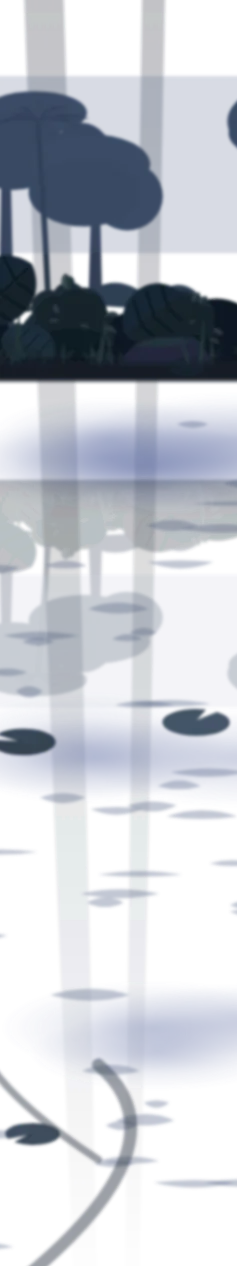
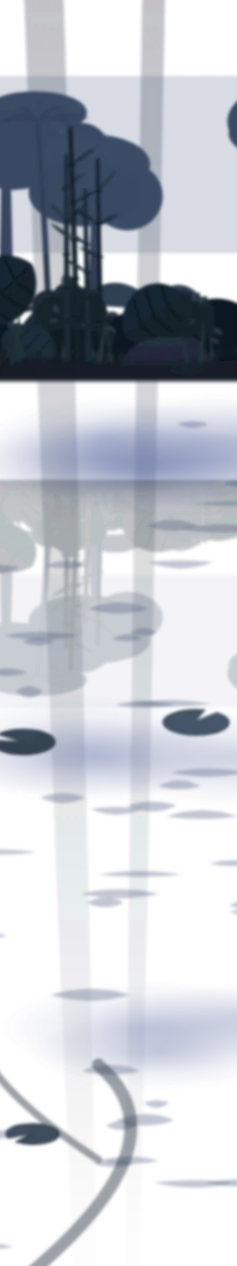
Grow varied plants on the far bank; keep the pond glow off the bank
Claude-Session: https://claude.ai/code/session_01EHtmNVvLo6L45VFzzqfGpi

Changed region(s): [[0.2363, 0.0924, 0.443, 0.2464], [0.2658, 0.4313, 0.384, 0.4929]]

diff --git a/assets/js/nature.js b/assets/js/nature.js
@@ -1276,6 +1276,22 @@ function farBankBackdrop(x0, x1, y, tones) {
   return s;
 }
 // 対岸の手前：岸から立つ太い幹と水に下りる根、水ぎわの苔むした岩、細長い水草の葉、濡れた土の帯
+// 対岸の植物（いろいろな種類を順ぐりに）：竹、パピルス、木生シダ、クワズイモ、ヘリコニア。くすんだ色で、影絵に近く
+function bankPlants(x0, x1, y, tones) {
+  const d = hrng(x0 * 2.7 + x1 * .3 + y * 5), deep = tones[0], mid = tones[1], lt = tones[2], lite = tones[3];
+  const leaf = (x, yy, L, a, w, c) => `<path d="M0 0Q${n1(L * .5)} ${n1(-w)} ${n1(L)} 0Q${n1(L * .5)} ${n1(w)} 0 0Z" transform="translate(${n1(x)} ${n1(yy)}) rotate(${n1(a)})" fill="${c}"/>`;
+  const kinds = {
+    bamboo(x) { let o = ''; const n = 4 + Math.floor(d() * 3); for (let k = 0; k < n; k++) { const bx = x + (k - n / 2) * .9 + (d() - .5) * .5, h = 12 + d() * 7, lean = (d() - .5) * 1.6, c = k % 2 ? mid : lt; o += `<path d="M${n1(bx - .22)} ${n1(y + .5)}L${n1(bx + lean - .16)} ${n1(y - h)}L${n1(bx + lean + .16)} ${n1(y - h)}L${n1(bx + .22)} ${n1(y + .5)}Z" fill="${c}"/>`; for (let j = 1; j < 6; j++) { const t = j / 6, jy = y - h * t, jx = bx + lean * t; o += `<path d="M${n1(jx - .3)} ${n1(jy)}H${n1(jx + .3)}" stroke="${deep}" stroke-width=".14"/>`; if (j > 2) for (const dir of [-1, 1]) if (d() < .6) o += leaf(jx, jy, 1.6 + d() * .9, dir < 0 ? 180 + 25 + d() * 25 : -25 - d() * 25 + 360, .28, d() < .5 ? lt : lite); } } return o; },
+    papyrus(x) { let o = ''; for (let k = 0; k < 5; k++) { const bx = x + (k - 2) * .8 + (d() - .5) * .6, h = 5 + d() * 4, tx = bx + (d() - .5) * 2, ty = y - h; o += `<path d="M${n1(bx)} ${n1(y + .5)}Q${n1((bx + tx) / 2)} ${n1(y - h * .5)} ${n1(tx)} ${n1(ty)}" stroke="${mid}" stroke-width=".16" fill="none"/>`; for (let j = 0; j < 11; j++) { const a = -165 + j * 15, L = 1.3 + d() * .6; o += `<path d="M${n1(tx)} ${n1(ty)}l${n1(Math.cos(a * Math.PI / 180) * L)} ${n1(Math.sin(a * Math.PI / 180) * L * .7)}" stroke="${j % 2 ? lt : lite}" stroke-width=".12" stroke-linecap="round"/>`; } } return o; },
+    treeFern(x) { const h = 6 + d() * 4, tx = x + (d() - .5), ty = y - h; let o = `<path d="M${n1(x - .35)} ${n1(y + .5)}L${n1(tx - .25)} ${n1(ty)}L${n1(tx + .25)} ${n1(ty)}L${n1(x + .35)} ${n1(y + .5)}Z" fill="${deep}"/>`; for (let k = 0; k < 9; k++) { const a = -175 + k * 21 + (d() - .5) * 8, L = 3 + d() * 1.5, ex = tx + Math.cos(a * Math.PI / 180) * L, ey = ty + Math.sin(a * Math.PI / 180) * L * .55 + L * .3; o += `<path d="M${n1(tx)} ${n1(ty)}Q${n1((tx + ex) / 2)} ${n1(Math.min(ty, ey) - .8)} ${n1(ex)} ${n1(ey)}Q${n1((tx + ex) / 2)} ${n1(Math.min(ty, ey) - .1)} ${n1(tx)} ${n1(ty + .3)}Z" fill="${k % 2 ? lt : mid}"/>`; for (let j = 1; j < 5; j++) { const t = j / 5, px = tx + (ex - tx) * t, py = ty + (ey - ty) * t - Math.sin(t * Math.PI) * .6; o += `<path d="M${n1(px)} ${n1(py)}l${n1(-.2)} ${n1(.45)}M${n1(px)} ${n1(py)}l${n1(.2)} ${n1(.45)}" stroke="${deep}" stroke-width=".08" opacity=".6"/>`; } } return o; },
+    elephantEar(x) { let o = ''; for (let k = 0; k < 4; k++) { const bx = x + (k - 1.5) * 1.3, h = 2.6 + d() * 2.2, lx = bx + (d() - .5) * 1.4, ly = y - h, s2 = 1.5 + d() * .8, c = k % 2 ? lt : mid; o += `<path d="M${n1(bx)} ${n1(y + .5)}Q${n1(bx)} ${n1(y - h * .6)} ${n1(lx)} ${n1(ly)}" stroke="${mid}" stroke-width=".13" fill="none"/><path d="M${n1(lx)} ${n1(ly)}C${n1(lx - s2 * 1.1)} ${n1(ly - s2 * .2)} ${n1(lx - s2 * .7)} ${n1(ly + s2 * 1.1)} ${n1(lx)} ${n1(ly + s2 * 1.5)}C${n1(lx + s2 * .7)} ${n1(ly + s2 * 1.1)} ${n1(lx + s2 * 1.1)} ${n1(ly - s2 * .2)} ${n1(lx)} ${n1(ly)}Z" fill="${c}"/><path d="M${n1(lx)} ${n1(ly)}V${n1(ly + s2 * 1.4)}" stroke="${deep}" stroke-width=".08" opacity=".5"/>`; } return o; },
+    heliconia(x) { let o = ''; for (let k = 0; k < 3; k++) { const bx = x + (k - 1) * 1.6, h = 5 + d() * 3, ty = y - h; o += `<path d="M${n1(bx)} ${n1(y + .5)}L${n1(bx)} ${n1(ty)}" stroke="${mid}" stroke-width=".18"/>` + leaf(bx, ty + 1.6, 3 + d(), -40 - d() * 30, .55, lt) + leaf(bx, ty + 2.6, 2.8 + d(), 200 + d() * 30, .5, mid); for (let j = 0; j < 4; j++) { const jy = ty + .2 + j * .75, dir = j % 2 ? 1 : -1; o += `<path d="M${n1(bx)} ${n1(jy)}l${n1(dir * .75)} ${n1(.2)}l${n1(-dir * .5)} ${n1(.45)}Z" fill="${j % 2 ? '#b8683e' : '#c98a3e'}" opacity=".85"/>`; } } return o; },
+  };
+  const order = ['bamboo', 'treeFern', 'papyrus', 'elephantEar', 'heliconia'];
+  let s = '', i = Math.floor(d() * order.length);
+  for (let x = x0 + 4 + d() * 8; x < x1; x += 11 + d() * 12) s += kinds[order[i++ % order.length]](x);
+  return s;
+}
 function farBankFront(x0, x1, y, tones) {
   const d = hrng(x0 * 1.3 + x1 * .4 + y * 2);
   let s = `<path d="M${n1(x0)} ${n1(y + .2)}H${n1(x1)}V${n1(y + 1.1)}H${n1(x0)}Z" fill="#2a3420" opacity=".55"/>`;
@@ -1284,6 +1300,7 @@ function farBankFront(x0, x1, y, tones) {
     s += `<path d="M${n1(x - w)} ${n1(y + .5)}Q${n1(x - w * .6)} ${n1(y - h * .5)} ${n1(x - w * .4)} ${n1(y - h)}L${n1(x + w * .4)} ${n1(y - h)}Q${n1(x + w * .7)} ${n1(y - h * .5)} ${n1(x + w)} ${n1(y + .5)}Z" fill="${c}"/><path d="M${n1(x - w * .5)} ${n1(y)}Q${n1(x - w * .35)} ${n1(y - h * .5)} ${n1(x - w * .25)} ${n1(y - h)}" stroke="#5a5a3c" stroke-width=".18" fill="none" opacity=".7"/>`;
     for (const dir of [-1, 1, -1]) { const rx = x + dir * (w + d() * 2.5); s += `<path d="M${n1(x + dir * w * .5)} ${n1(y - 1.2)}Q${n1(rx)} ${n1(y - .8)} ${n1(rx + dir * .8)} ${n1(y + 1.4)}" stroke="${c}" stroke-width="${n1(.28 + d() * .2)}" fill="none" stroke-linecap="round"/>`; }
   }
+  s += bankPlants(x0, x1, y, tones);
   for (let x = x0 + d() * 8; x < x1; x += 9 + d() * 14) { // 水ぎわの岩（半分水に沈み、上に苔）
     const w = 1.6 + d() * 2.2, h = w * (.45 + d() * .2), cy = y + .9;
     s += `<path d="M${n1(x - w)} ${n1(cy)}Q${n1(x - w * .8)} ${n1(cy - h)} ${n1(x)} ${n1(cy - h)}Q${n1(x + w * .8)} ${n1(cy - h)} ${n1(x + w)} ${n1(cy)}Z" fill="#5a5f4a"/><path d="M${n1(x - w * .7)} ${n1(cy - h * .7)}Q${n1(x)} ${n1(cy - h * 1.15)} ${n1(x + w * .5)} ${n1(cy - h * .8)}Q${n1(x)} ${n1(cy - h * .55)} ${n1(x - w * .7)} ${n1(cy - h * .7)}Z" fill="${tones[3]}" opacity=".75"/><path d="M${n1(x + w * .2)} ${n1(cy - h * .2)}Q${n1(x + w * .7)} ${n1(cy - h * .4)} ${n1(x + w * .9)} ${n1(cy)}" stroke="#3a3e30" stroke-width=".25" fill="none" opacity=".6"/>`;

diff --git a/assets/css/museum.css b/assets/css/museum.css
@@ -381,6 +381,7 @@ body:not(.beat-on) .player-btn::after { content: "PRESS PLAY"; position: absolut
 /* 水辺の光る水（奥の水面と、睡蓮・桟橋のあいだ）。濃さは歩いた分だけ JS で上げる
    光の網目は canvas に描く（手前は大きく、奥ほど小さく詰まり、霞む）＝壁ではなく水面に見える */
 .water-glow { position: absolute; inset: 0; overflow: hidden; pointer-events: none; opacity: 0; --caust: 0; }
+.water-glow { -webkit-mask-image: linear-gradient(transparent 0, transparent 27vh, #000 32vh); mask-image: linear-gradient(transparent 0, transparent 27vh, #000 32vh); } /* 光るのは水面だけ（対岸の岸と植物にはかけない） */
 .water-glow .tint { position: absolute; inset: 0; background:
   radial-gradient(40% 22% at 24% 46%, rgba(120, 170, 112, .3), transparent 70%),
   radial-gradient(44% 26% at 76% 70%, rgba(110, 164, 106, .28), transparent 70%),
